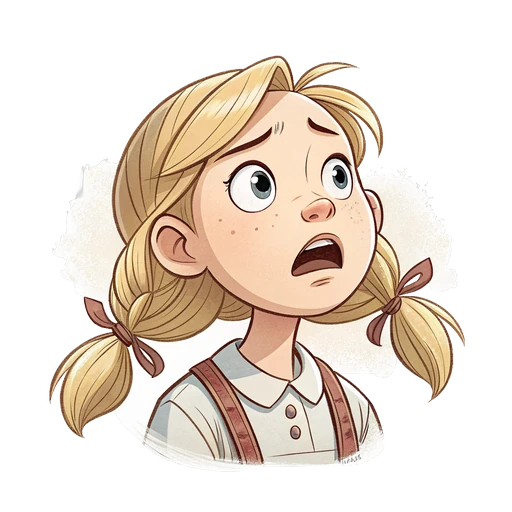
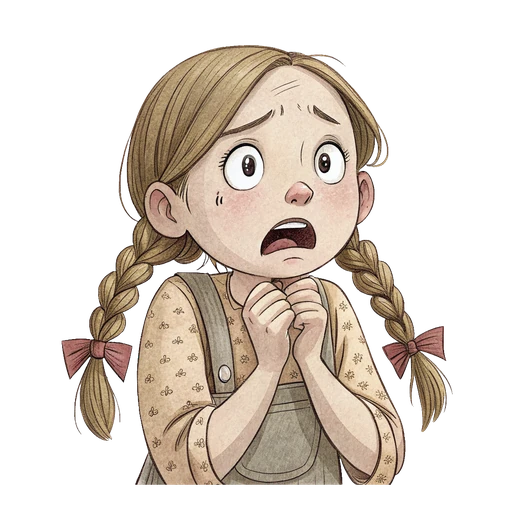
feat(games): add Shocked + Interested emotions; truer Surprised/Scared/Sick (Emotion ID)
Regenerate Surprised (now clearly surprised, not merely interested),
Scared (frightened and cowering, not shocked), and Sick (feverish flush +
blanket on natural skin, dropping the unrealistic green face). Reuse the
old Surprised as a new Interested emotion and the old Scared as a new
Shocked emotion (13 total). Bump APP_VERSION 0.11.1 -> 0.11.2.

diff --git a/apps/games/emotions/index.html b/apps/games/emotions/index.html
@@ -362,6 +362,8 @@
     { key:'scared',    label:'Scared',    face:'😨', color:'#8b5cf6' },
     { key:'nervous',   label:'Nervous',   face:'😰', color:'#20a4a4' },
     { key:'surprised', label:'Surprised', face:'😮', color:'#ef9f27' },
+    { key:'shocked',   label:'Shocked',   face:'😲', color:'#e11d48' },
+    { key:'interested',label:'Interested',face:'🤔', color:'#84cc16' },
     { key:'tired',     label:'Tired',     face:'😴', color:'#6d93a4' },
     { key:'calm',      label:'Calm',      face:'😌', color:'#1d9e75' },
     { key:'excited',   label:'Excited',   face:'🤩', color:'#ec4899' },

diff --git a/apps/games/_worker.js b/apps/games/_worker.js
@@ -6,7 +6,7 @@ import { handleSuggest } from "./shared/suggest.js";
 // Single source of truth for the deployed app version. Bump on every deploy that
 // changes CSS/JS so the asset ?v= query changes and clients fetch fresh files.
 // Policy: patch = fixes, minor = features/reskins; major stays 0 for now.
-const APP_VERSION = "0.11.1";
+const APP_VERSION = "0.11.2";
 
 // Append ?v=APP_VERSION to local (relative) css/js URLs in served HTML, and expose
 // the version to the page as window.APP_VERSION. External/CDN URLs (http(s):, //)
